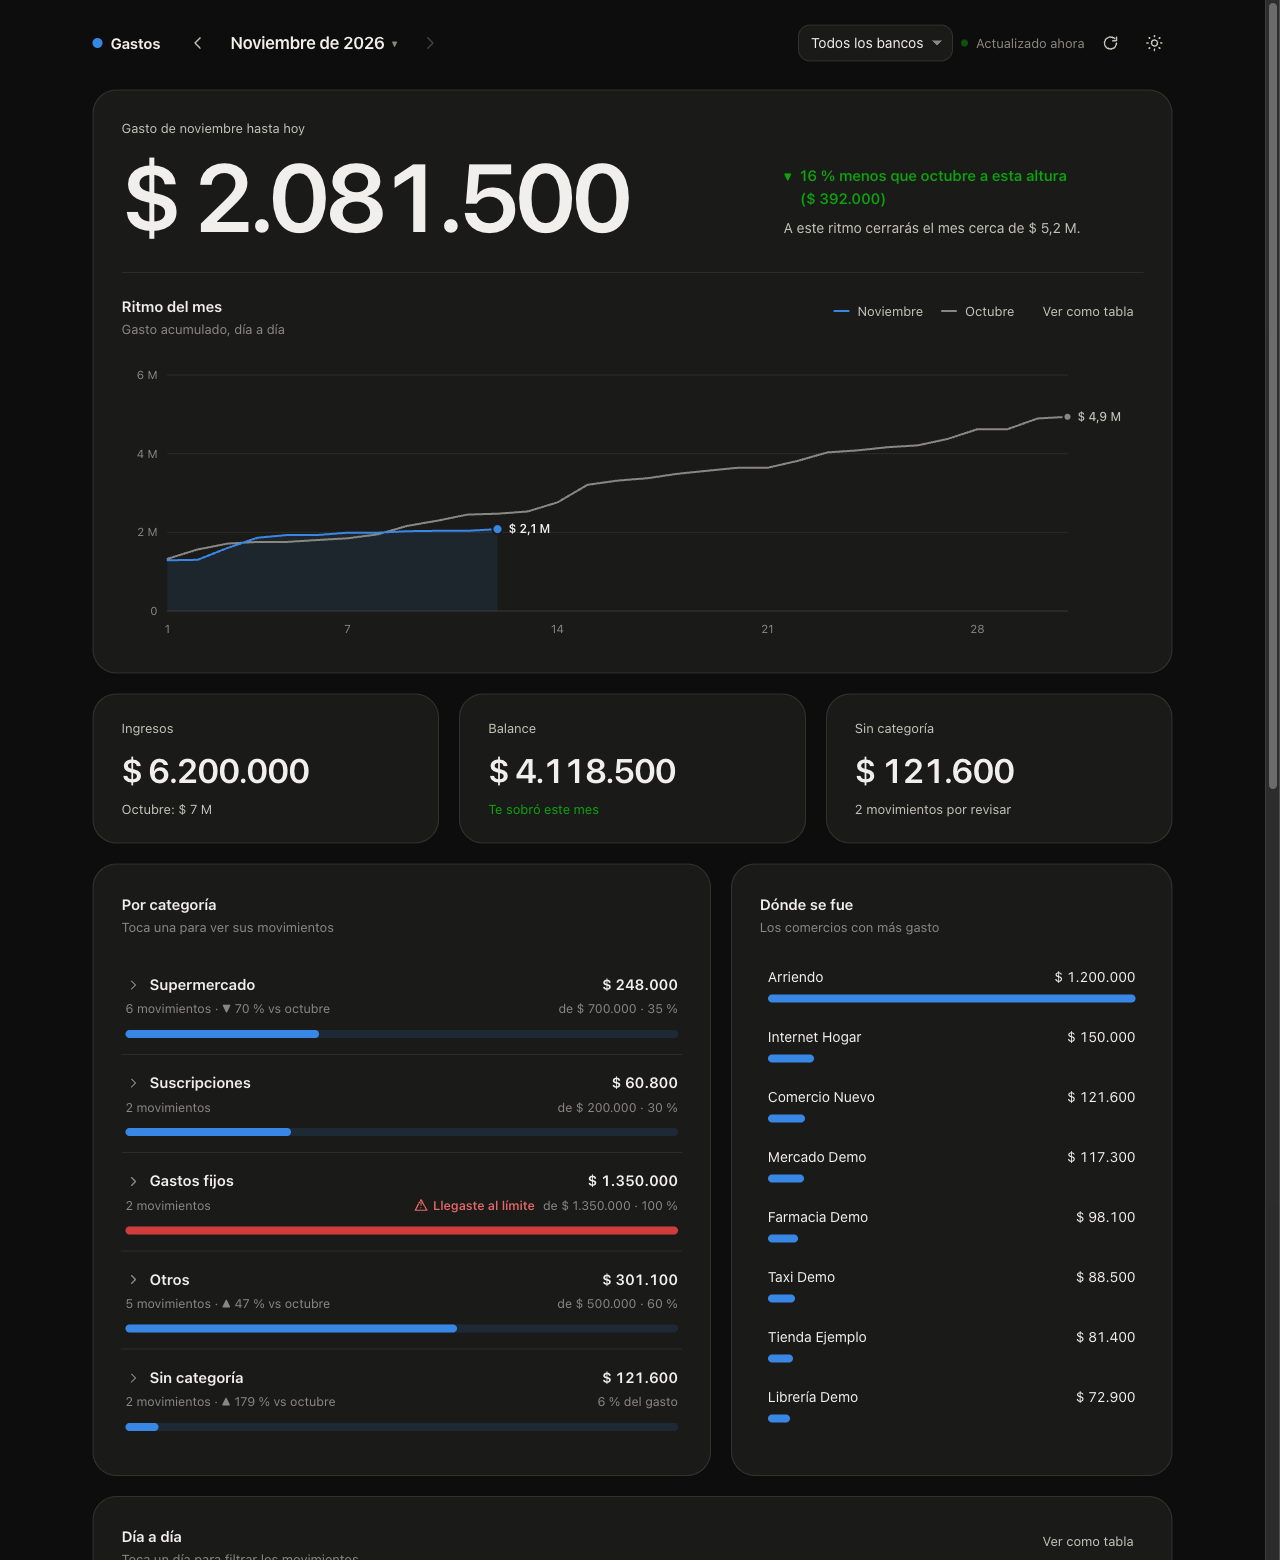
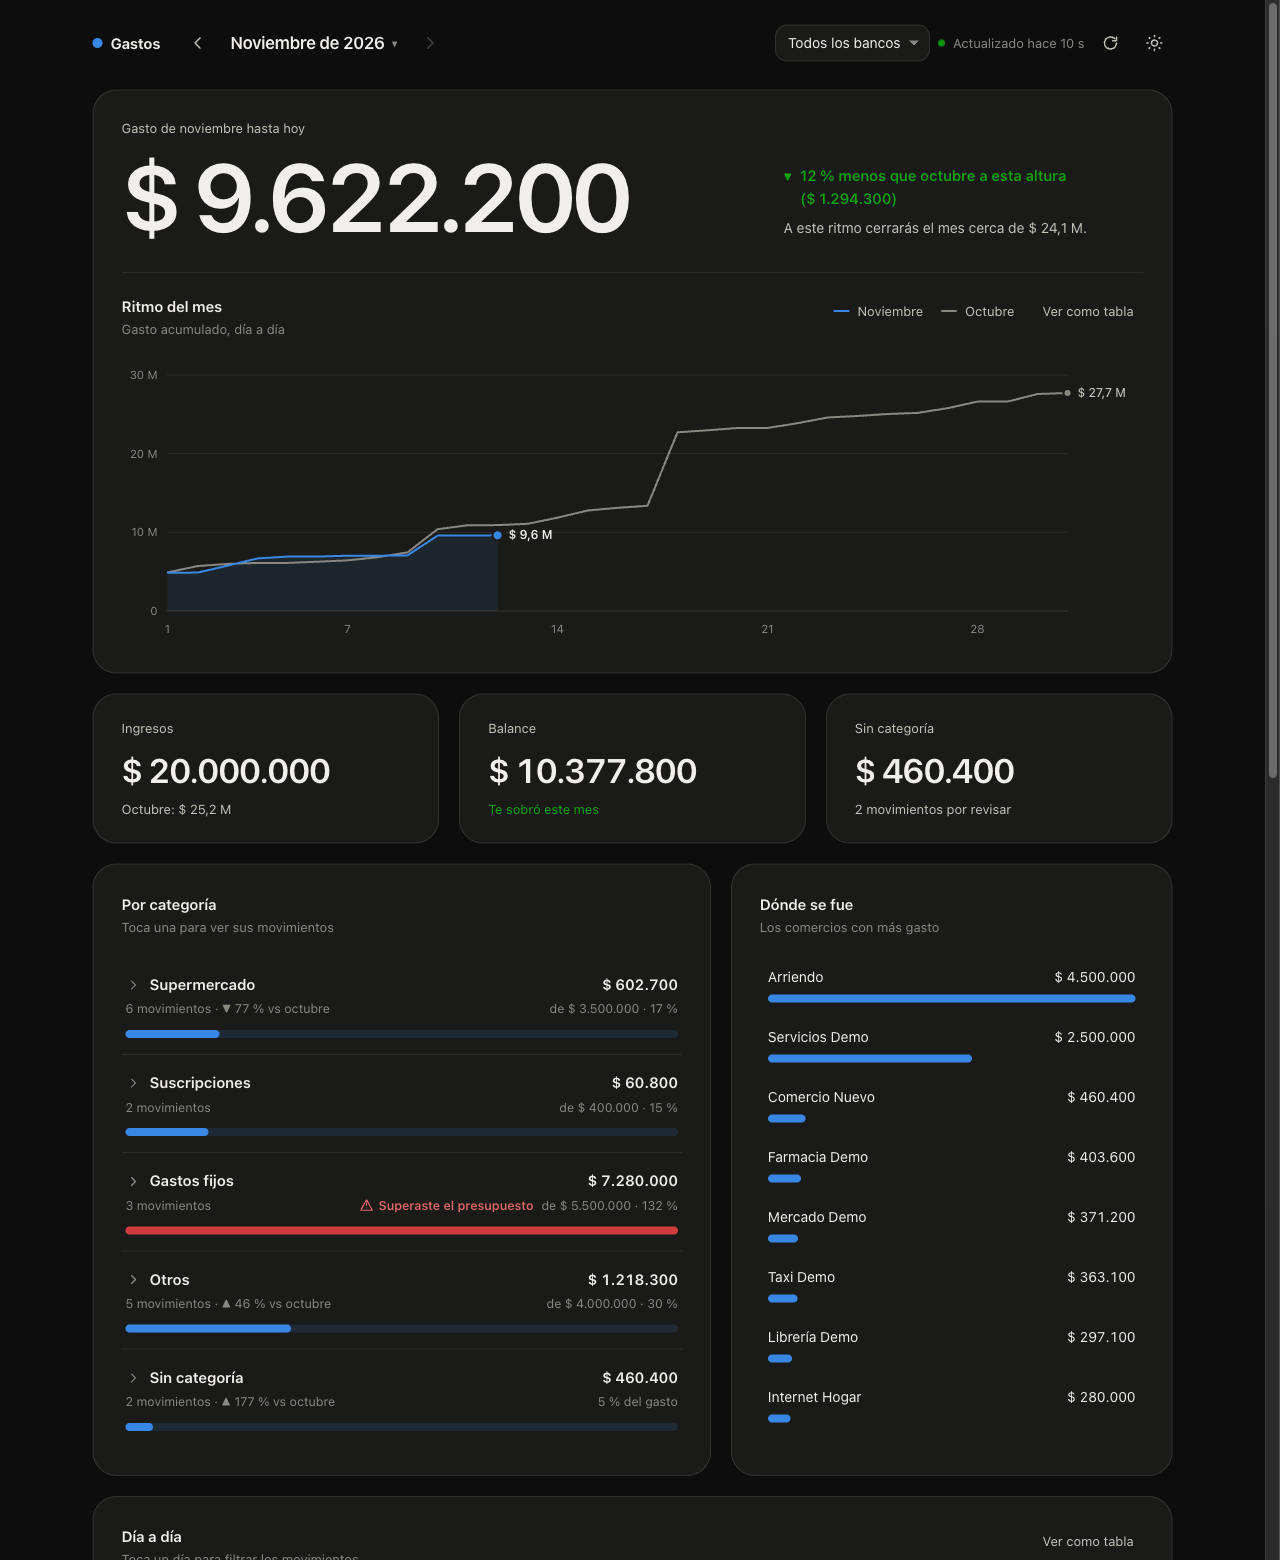
feat: dashboard tuned for ~25M COP/month figures, GASTOS_NO_BROWSER opt-out, realistic demo and screenshots

diff --git a/src/panel/web-styles.ts b/src/panel/web-styles.ts
@@ -73,7 +73,7 @@ td.num { white-space: nowrap; }
 
 /* hero */
 .hero-top { display: flex; align-items: flex-end; justify-content: space-between; gap: 20px 48px; flex-wrap: wrap; padding-bottom: 28px; }
-.hero-value { font-size: clamp(52px, 9vw, 96px); line-height: 1; font-weight: 600; letter-spacing: -0.04em; margin: 10px 0 0; }
+.hero-value { font-size: clamp(40px, 12.5vw, 96px); line-height: 1; font-weight: 600; letter-spacing: -0.04em; margin: 10px 0 0; }
 .hero-side { max-width: 360px; padding-bottom: 6px; }
 .hero-chart { border-top: 1px solid var(--grid); padding-top: 22px; }
 .tools { display: flex; align-items: center; gap: 18px; flex-wrap: wrap; justify-content: flex-end; }

diff --git a/src/open-browser.ts b/src/open-browser.ts
@@ -2,6 +2,8 @@ import { execFile } from "node:child_process";
 
 /** Opens a URL in the user's default browser (no shell involved); resolves to whether the command succeeded. */
 export function openInBrowser(url: string): Promise<boolean> {
+  // Headless machines and automated checks can opt out; the tool then returns the URL instead.
+  if (process.env.GASTOS_NO_BROWSER === "1") return Promise.resolve(false);
   const [cmd, args]: [string, string[]] =
     process.platform === "darwin" ? ["open", [url]]
     : process.platform === "win32" ? ["rundll32", ["url.dll,FileProtocolHandler", url]]

diff --git a/tests/open-browser.test.ts b/tests/open-browser.test.ts
@@ -1,0 +1,15 @@
+import { afterEach, describe, expect, it } from "vitest";
+import { openInBrowser } from "../src/open-browser.js";
+
+describe("openInBrowser", () => {
+  const original = process.env.GASTOS_NO_BROWSER;
+  afterEach(() => {
+    if (original === undefined) delete process.env.GASTOS_NO_BROWSER;
+    else process.env.GASTOS_NO_BROWSER = original;
+  });
+
+  it("does nothing when GASTOS_NO_BROWSER=1", async () => {
+    process.env.GASTOS_NO_BROWSER = "1";
+    expect(await openInBrowser("http://127.0.0.1:1/")).toBe(false);
+  });
+});
